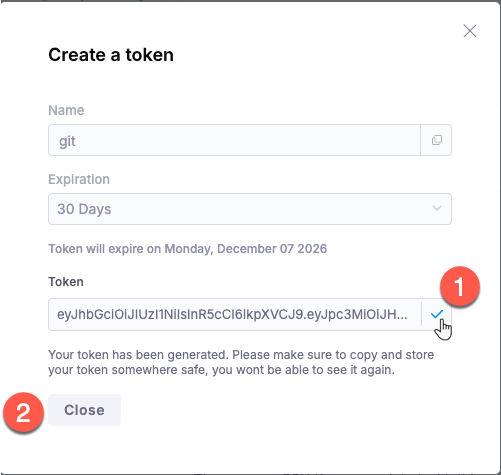
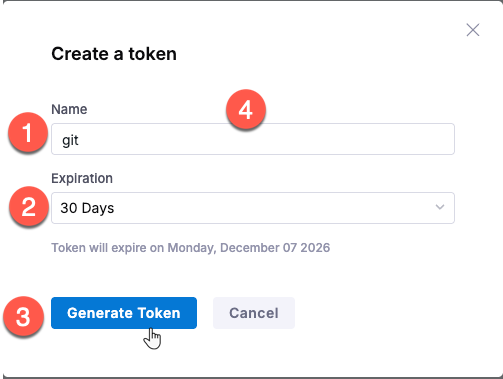
MAINT: Rewrite Lab 02 walkthrough with annotated screenshots
- Replace multi-step screenshot series with single annotated screenshots and numbered callouts
- Switch VS Code file creation to Auto Save and link directly to the pipelines page
- Document the Docker Engine 29 client-version failure with fixes for Linux and Docker Desktop on Mac
- Refresh the Lab 01 token screenshots

diff --git a/labs/02-first-ci-pipeline.md b/labs/02-first-ci-pipeline.md
@@ -25,6 +25,12 @@ docker ps --filter name=harness --format '{{.Names}} {{.Status}}'
 
 You should see `## main...origin/main`, one commit, and `harness Up ...`. If `docker ps` says "permission denied", run `newgrp docker` in this terminal first.
 
+<img src="img/02-first-ci-pipeline/verify-harness-and-repo.png" alt="Terminal output of git status (callout 1), git log (callout 2), and docker ps (callout 3) showing main tracking origin/main, one commit, and harness Up">
+
+1. `git status --short --branch` shows that you are on `main`, and that it is in sync with `origin/main`. An empty list after the branch line means no uncommitted changes.
+2. `git log --oneline -1` shows the latest commit, `Add the flight status service`.
+3. `docker ps --filter name=harness` shows that the Harness container is running (`Up`).
+
 ## Part 1: Run the checks on your machine
 
 ### 1.1 Run the tests in a container
@@ -53,6 +59,12 @@ SKIPPED [1] tests/integration/test_postgres.py:51: DATABASE_URL is not set
 ...
 44 passed, 6 skipped in 0.62s
 ```
+
+<img src="img/02-first-ci-pipeline/test-execution.png" alt="pytest output with three numbered callouts: the session header with the collected test count, the progress line for each test file, and the short test summary with the skipped tests and the final totals">
+
+1. **Session header.** It shows the Python and pytest versions, the folder that pytest runs in (`/src`), and `collected 50 items`. That is the number of tests that pytest found before it ran any of them.
+2. **Progress lines.** Each line is one test file. Each character is one test: `.` means passed and `s` means skipped. The six `s` characters on the `test_postgres.py` line are the six skipped tests.
+3. **Short test summary.** It lists each skipped test and the reason it was skipped. The last line gives the totals, `44 passed, 6 skipped`. Check this line first.
 
 The 6 skipped tests are integration tests. They need a PostgreSQL database and run only when `DATABASE_URL` is set. Lab 03 runs them. Keep in mind that a skipped test did not check anything in this run.
 
@@ -94,22 +106,19 @@ Create the file `~/flight-status/.harness/ci.yaml` in VS Code, paste the content
 <!-- vscode:begin -->
 In VS Code, open the folder `~/flight-status` with **File** > **Open Folder** if it is not open yet. Then:
 
-1. In the Explorer, select the **New File** button next to the folder name.
-2. Type the path of the new file, `.harness/ci.yaml`, and press Enter.
-3. Copy the content with the copy button of the code block below. Click into the empty editor and paste with Ctrl+V.
-4. Save with Ctrl+S. The dot on the editor tab disappears when the file is saved.
+1. Turn on **Auto Save** so that VS Code saves the file for you. Select **File** > **Auto Save**. A check mark next to it means it is on (2).
+
+<img src="img/02-first-ci-pipeline/enable-vscode-auto-save.png" alt="VS Code File menu with Auto Save checked; (1) File menu, (2) Auto Save">
+
+2. In the Explorer, select the **New File** button (1) next to the folder name. Type `.harness/ci.yaml` and press Enter. The new file appears under `.harness` (2).
+
+<img src="img/02-first-ci-pipeline/vscode-new-file-ci.png" alt="VS Code Explorer: (1) New File button next to flight-status, (2) the new ci.yaml file under .harness">
+
+3. Copy the content of the code block below with its copy button. Click into the empty editor and paste with Ctrl+V. The path bar (2) shows where the cursor is in the YAML.
+
+<img src="img/02-first-ci-pipeline/ci-yaml-content.png" alt="VS Code with ci.yaml open and the pasted pipeline content; (1) ci.yaml in the Explorer, (2) the path bar above the editor">
 
 Create the other files in the labs the same way. For a file outside the open folder, select **File** > **New Text File**, paste the content, and save it with **File** > **Save As** under the path that the lab gives.
-
-<img src="img/vscode/vscode-new-file-1.png" alt="Create a file in VS Code, step 1 of 5">
-
-<img src="img/vscode/vscode-new-file-2.png" alt="Create a file in VS Code, step 2 of 5">
-
-<img src="img/vscode/vscode-new-file-3.png" alt="Create a file in VS Code, step 3 of 5">
-
-<img src="img/vscode/vscode-new-file-4.png" alt="Create a file in VS Code, step 4 of 5">
-
-<img src="img/vscode/vscode-new-file-5.png" alt="Create a file in VS Code, step 5 of 5">
 
 <!-- vscode:end -->
 
@@ -179,7 +188,7 @@ Nothing runs yet. Harness does not know about the file until you create a pipeli
 
 ### 3.1 Create the pipeline
 
-In Harness, open the `flight-status` repository and select **Pipelines**. Select **New Pipeline** and enter:
+Open the [Pipelines page of the `flight-status` repository](http://localhost:3000/flightops/flight-status/pipelines). Select **New Pipeline** and enter:
 
 - Name: `ci`
 - Branch: `main`
@@ -187,15 +196,10 @@ In Harness, open the `flight-status` repository and select **Pipelines**. Select
 
 Select **Create**. Harness opens the pipeline and shows your YAML.
 
-
 <!-- shots:begin -->
-<img src="img/02-first-ci-pipeline/01-create_pipeline-1.png" alt="Create the pipeline, step 1 of 4">
+<img src="img/02-first-ci-pipeline/go-to-new-pipeline-flight-status.png" alt="Pipelines page of flight-status: (1) Pipelines in the sidebar, (2) New Pipeline button">
 
-<img src="img/02-first-ci-pipeline/01-create_pipeline-2.png" alt="Create the pipeline, step 2 of 4">
-
-<img src="img/02-first-ci-pipeline/01-create_pipeline-3.png" alt="Create the pipeline, step 3 of 4">
-
-<img src="img/02-first-ci-pipeline/01-create_pipeline-4.png" alt="Create the pipeline, step 4 of 4">
+<img src="img/02-first-ci-pipeline/fill-create-new-pipeline.png" alt="Create New Pipeline dialog: (1) Name ci, (2) YAML path .harness/ci.yaml, (3) Create">
 
 <!-- shots:end -->
 
@@ -205,13 +209,12 @@ The name `ci` is also the pipeline's identifier. In Lab 03, the branch rule that
 
 ### 3.2 Run the pipeline
 
-Select **Run**, keep the branch `main`, and confirm. Harness creates an execution with the number 1.
-
+Select **Save and Run** (1). In the dialog, keep the branch `main` and select **Run pipeline** (1). Harness creates an execution with the number 1.
 
 <!-- shots:begin -->
-<img src="img/02-first-ci-pipeline/02-run_pipeline-1.png" alt="Run the pipeline, step 1 of 2">
+<img src="img/02-first-ci-pipeline/ci-save-and-run.png" alt="Pipeline editor with the Save and Run button (1)">
 
-<img src="img/02-first-ci-pipeline/02-run_pipeline-2.png" alt="Run the pipeline, step 2 of 2">
+<img src="img/02-first-ci-pipeline/run-pipeline.png" alt="Run pipeline dialog with branch main and the Run pipeline button (1)">
 
 <!-- shots:end -->
 
@@ -520,6 +523,22 @@ The pipeline is green again.
 - **The `install` step fails with a network error**: The step container needs internet access to download packages. Run the pipeline again. If it keeps failing, check that the machine reaches PyPI: `curl -sI https://pypi.org | head -1`.
 - **`.venv/bin/activate: not found` in `lint` or `test`**: The `install` step did not run or failed. Steps share the workspace only within one run.
 - **`lint` fails with `File would be reformatted`**: A file does not match ruff's layout. Run the formatter in a container: `docker run --rm -v "$PWD":/src -w /src python:3.12-slim sh -c "pip install --quiet --root-user-action=ignore ruff==0.17.2 && ruff format ."`, then commit the change.
+- **Every step fails at 0s with `Error response from daemon: client version 1.41 is too old. Minimum supported API version is 1.44`**: Docker Engine 29 refuses clients older than API 1.44, and the Harness 3.3.0 image uses a 1.41 client to start the step containers.
+
+  <img src="img/02-first-ci-pipeline/troubleshooting-client-version.png" alt="Harness execution page for the ci pipeline with a red banner: Error response from daemon, client version 1.41 is too old, minimum supported API version is 1.44. The clone and build1 steps show 0s">
+
+  Students on the course Linux VM should not see this error. If you do, lower the minimum API version that the Docker daemon accepts, then run the pipeline again. The `harness` container restarts with Docker and keeps its data.
+
+  ```bash
+  sudo mkdir -p /etc/systemd/system/docker.service.d
+  printf '[Service]\nEnvironment=DOCKER_MIN_API_VERSION=1.41\n' | sudo tee /etc/systemd/system/docker.service.d/min-api.conf
+  sudo systemctl daemon-reload && sudo systemctl restart docker
+  ```
+
+  On a Mac with Docker Desktop you can reach the same error, because Docker Desktop bundles its own engine. Check the engine version in Docker Desktop, menu **About Docker Desktop**. Engine 29.x, as below, has the problem. Updating Docker Desktop does not remove it, because newer engines keep the 1.44 minimum. Run Harness with a matching client version instead: remove the container with `docker rm -f harness`, and start it again with the command from lab 01, step 4.3, plus the extra option `-e DOCKER_API_VERSION=1.44`.
+
+  <img src="img/02-first-ci-pipeline/docker-desktop-version.png" alt="About Docker Desktop dialog showing Docker Desktop 4.55.0 with Engine 29.1.3, Compose v2.40.3-desktop.1 and Kubernetes v1.34.1">
+
 - **A push does not start a run**: Open the pipeline settings, tab Triggers. The trigger needs the event "Branch updated" and must be enabled.
 - **`git push` is rejected with `fetch first`**: The server has commits that you do not have. Run `git pull --rebase` and push again.
 
